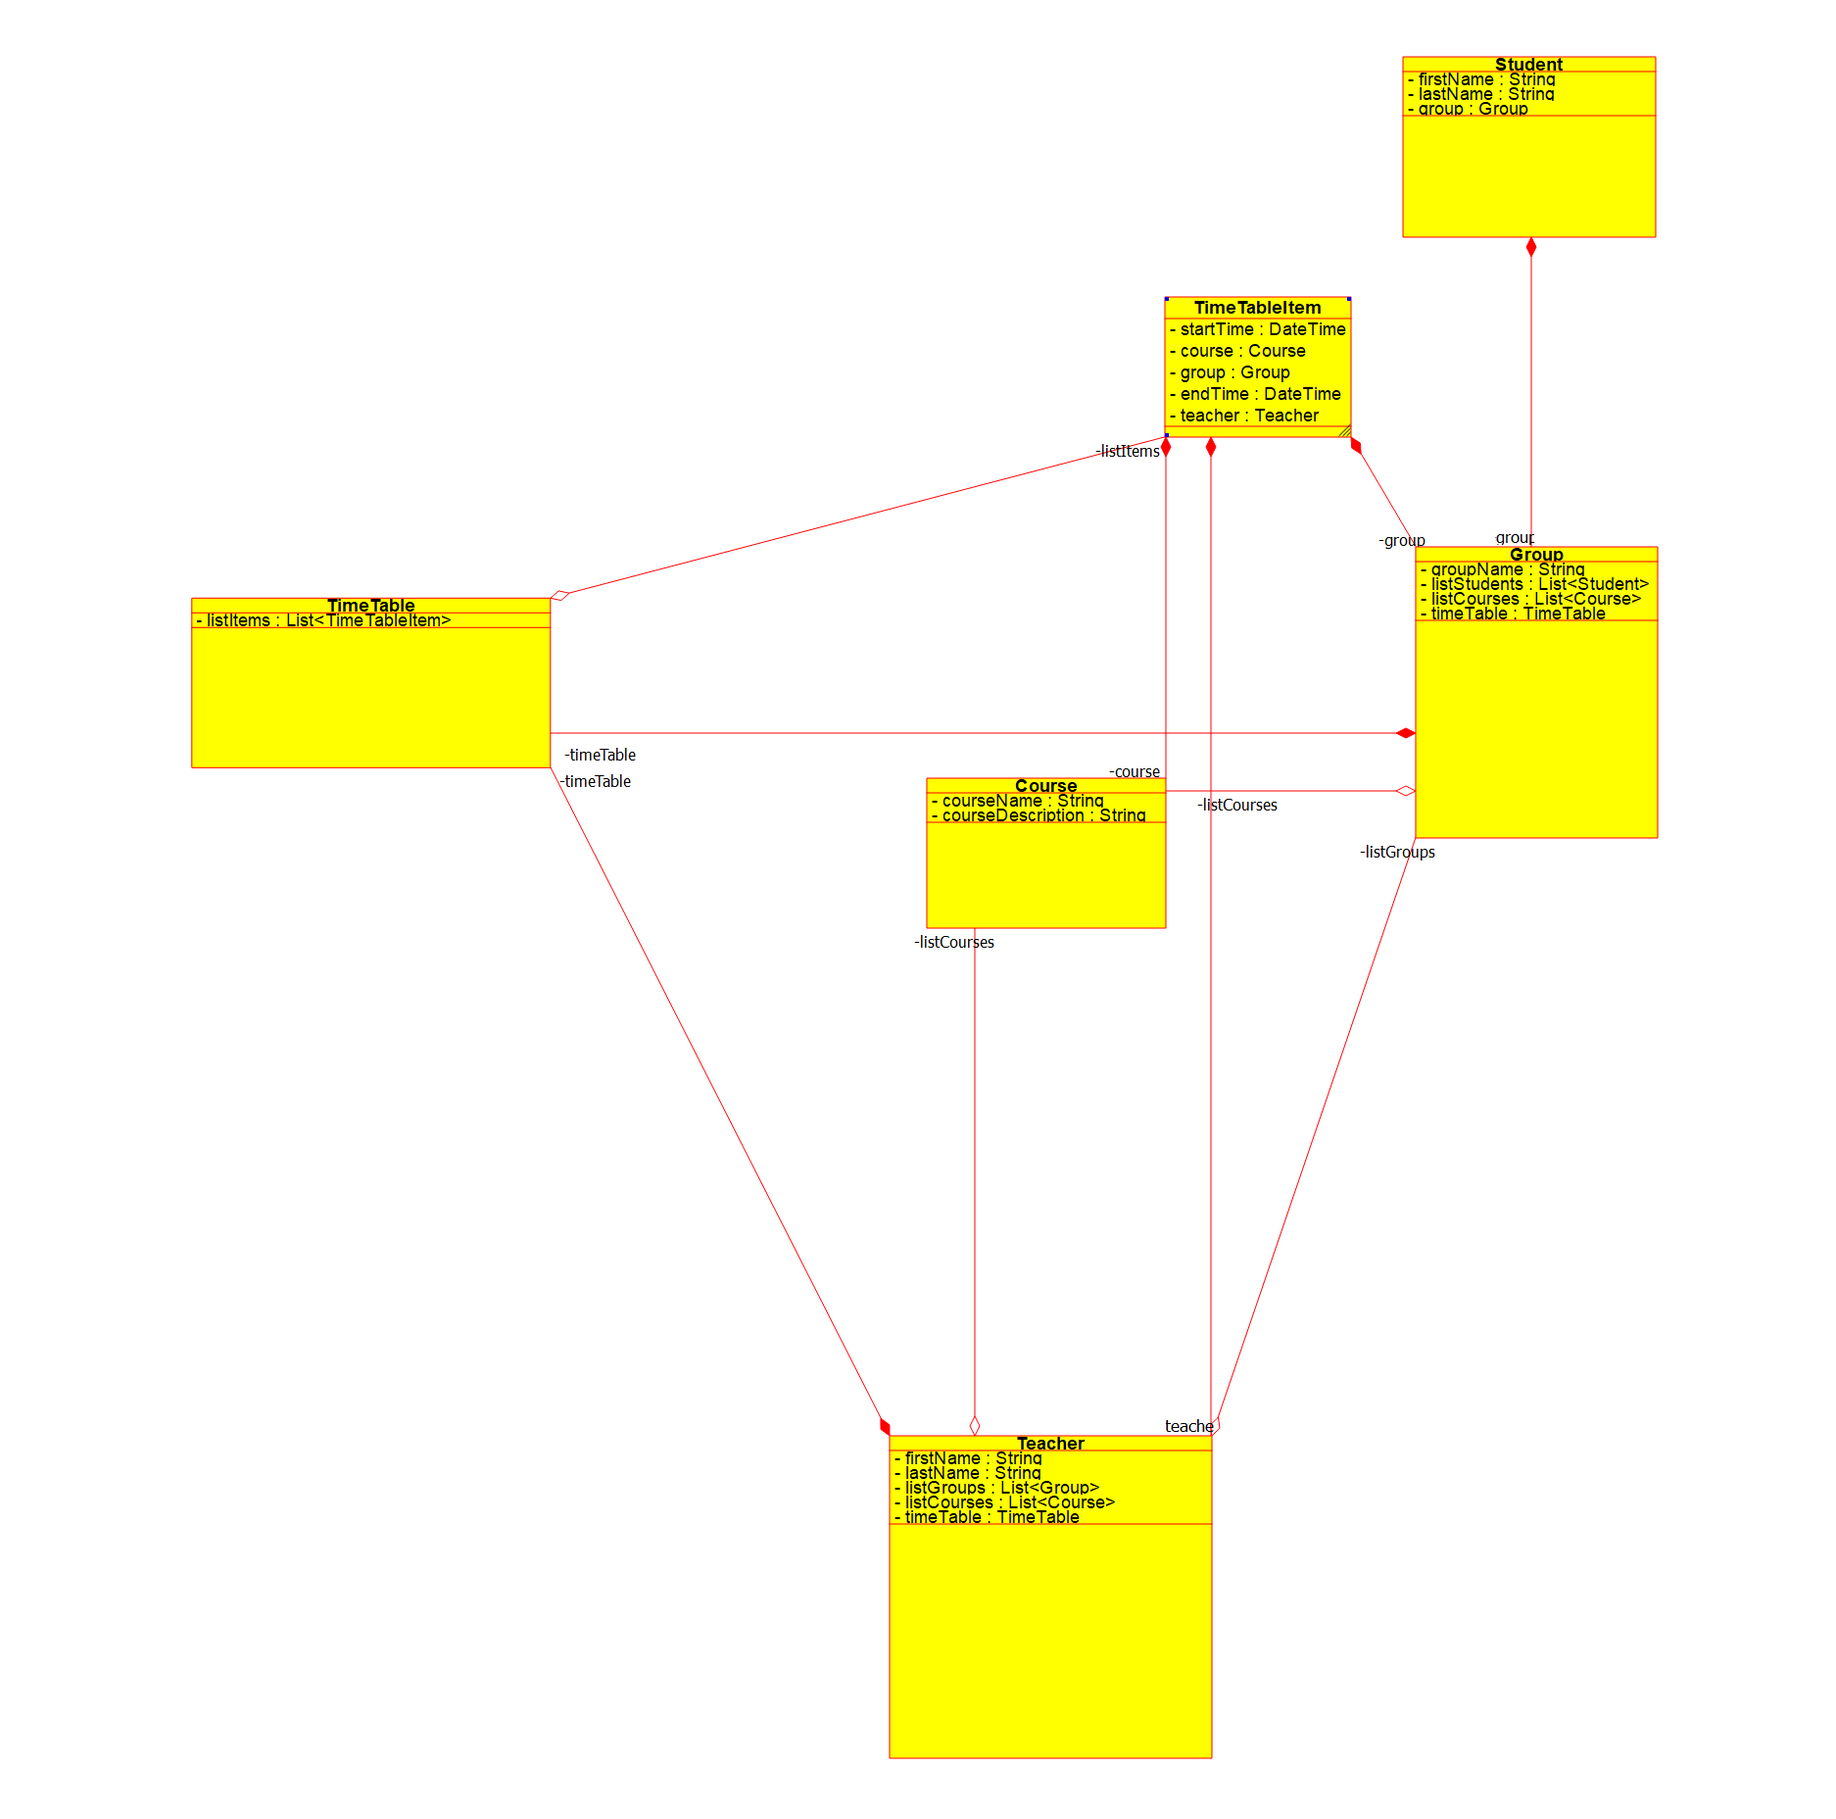
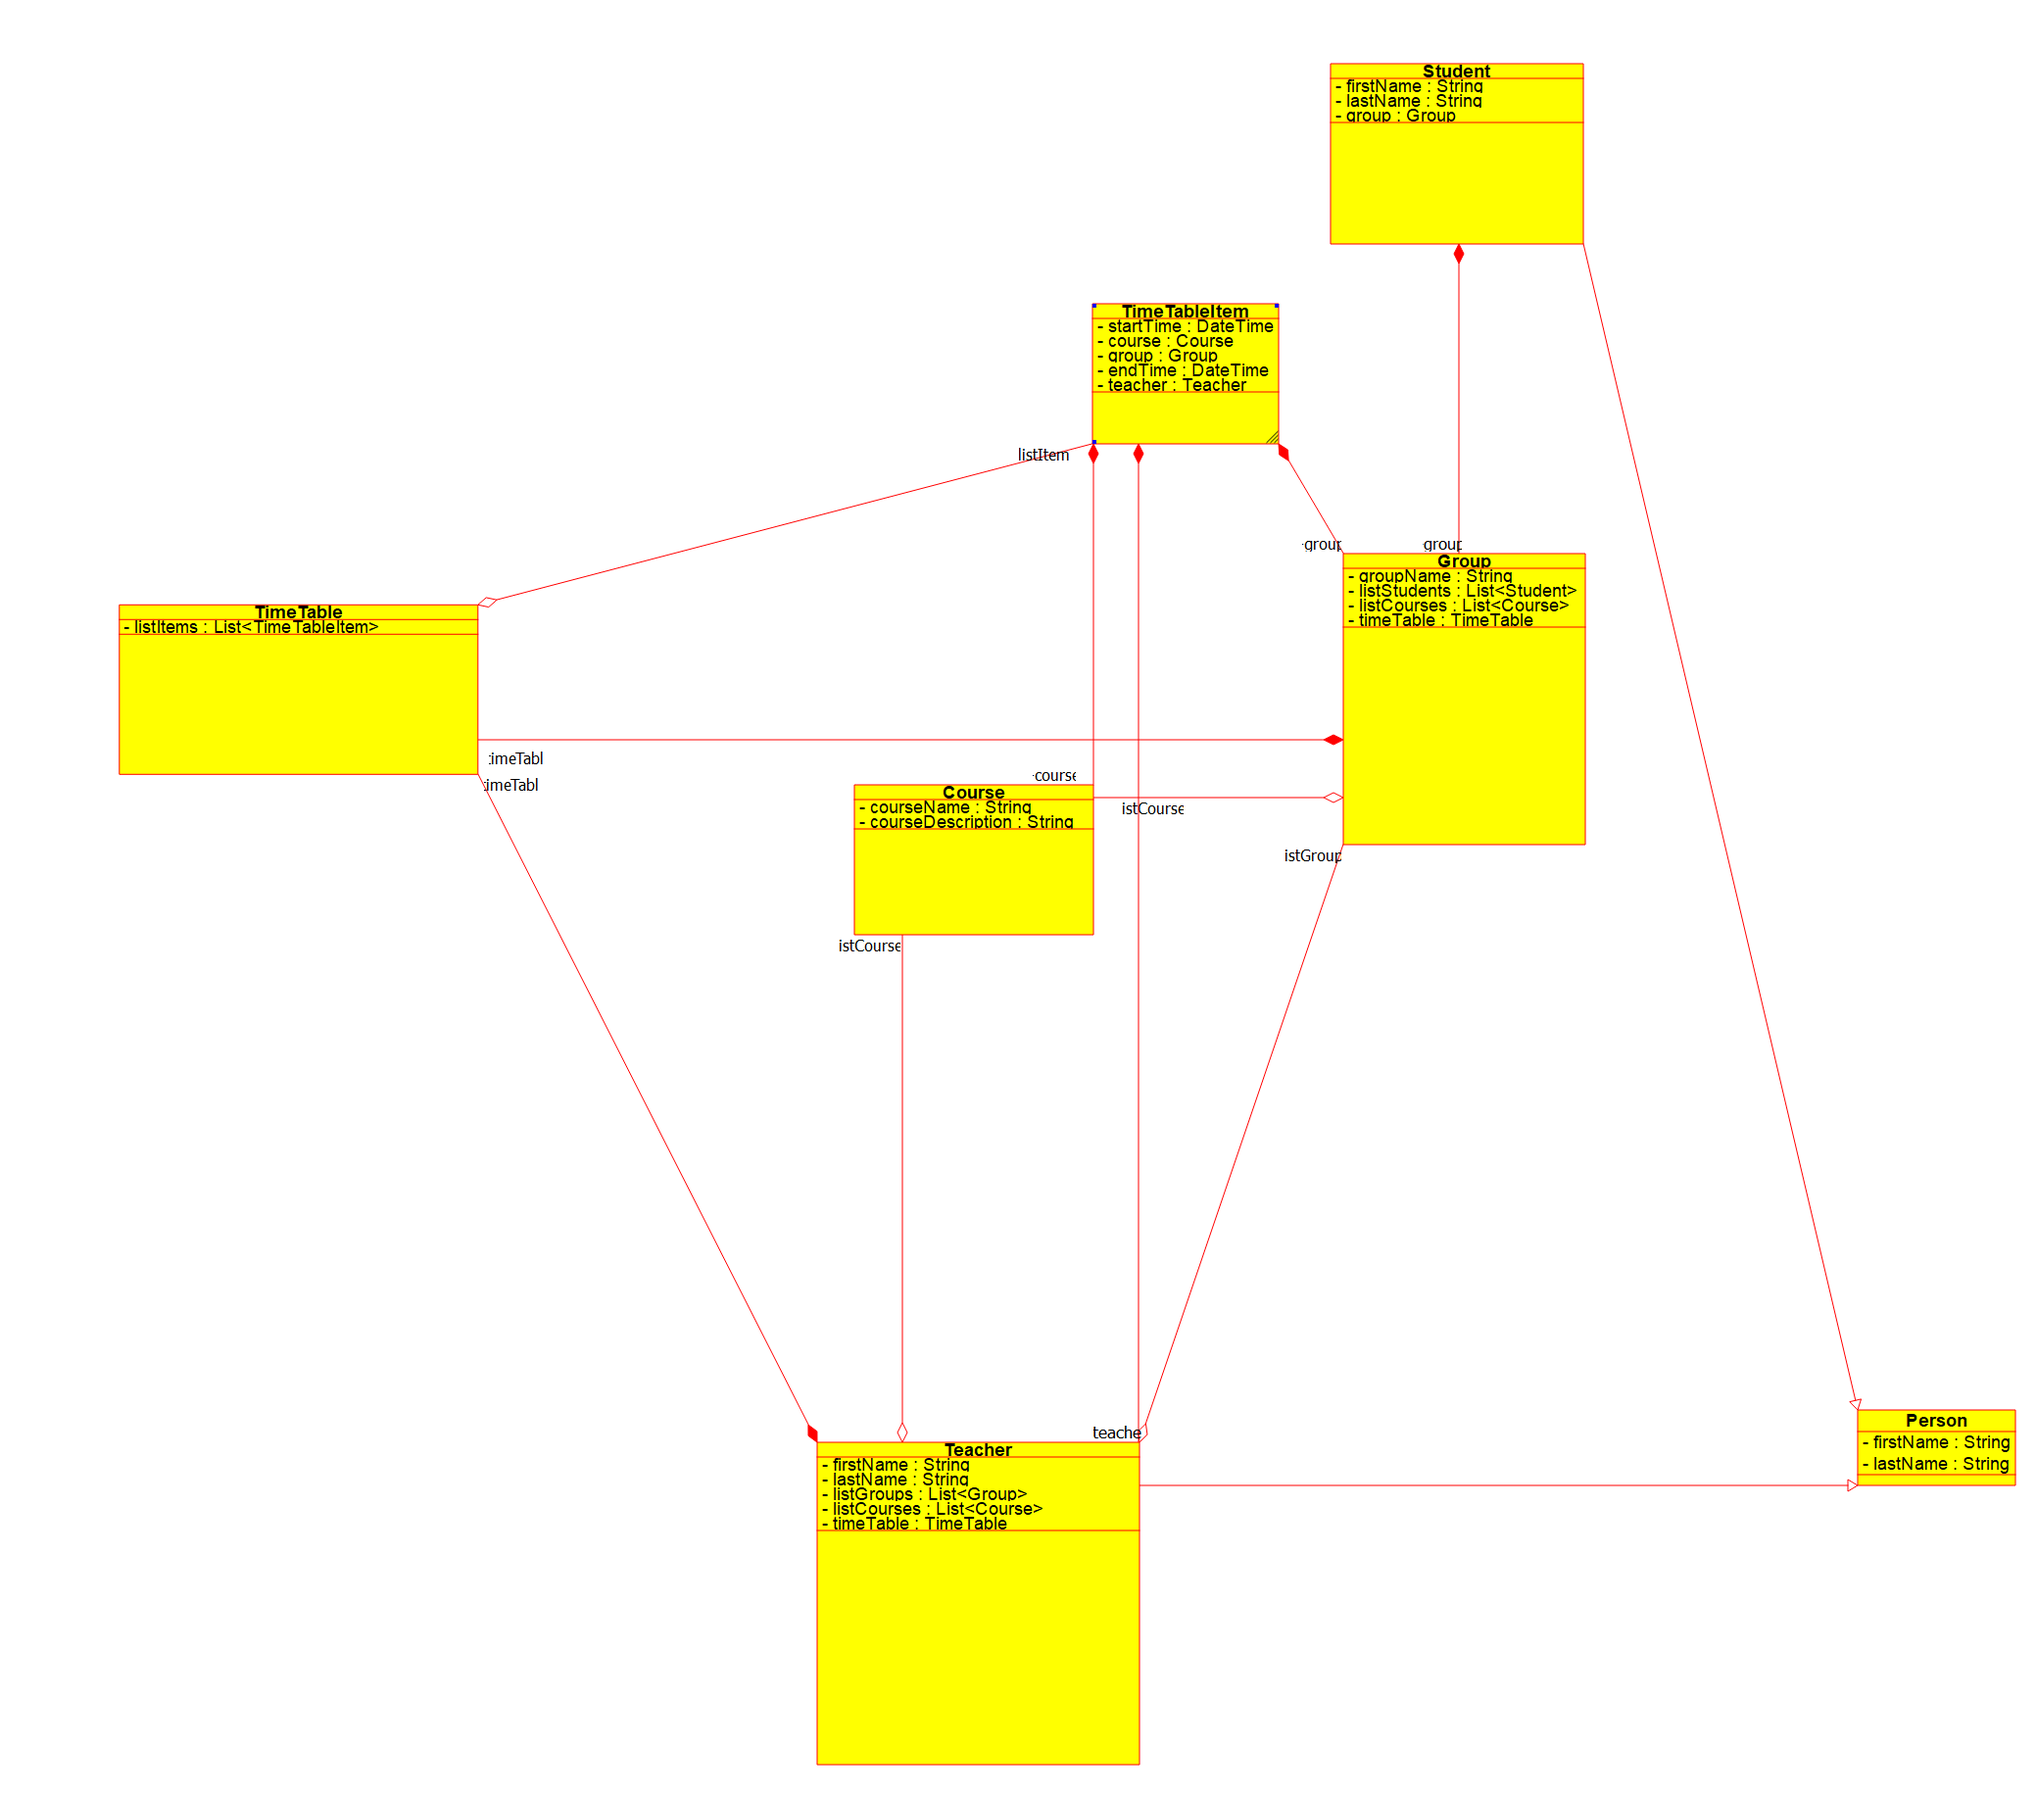
add models

diff --git a/src/main/java/model/TimeTableItem.java b/src/main/java/model/TimeTableItem.java
@@ -1,0 +1,17 @@
+package model;
+
+import java.time.LocalDateTime;
+
+import lombok.Getter;
+import lombok.Setter;
+
+@Getter
+@Setter
+public class TimeTableItem {
+
+    private LocalDateTime startTime;
+    private LocalDateTime endTime;
+    private Course course;
+    private Group group;
+    private Teacher teacher;
+}

diff --git a/src/main/java/model/Teacher.java b/src/main/java/model/Teacher.java
@@ -1,0 +1,16 @@
+package model;
+
+import java.util.List;
+
+import lombok.Getter;
+import lombok.Setter;
+
+@Getter
+@Setter
+public class Teacher extends Person {
+
+    private List<Group> listGroups;
+    private List<Course> listCourses;
+    private TimeTable timeTable;
+
+}

diff --git a/src/main/java/model/Group.java b/src/main/java/model/Group.java
@@ -1,0 +1,16 @@
+package model;
+
+import java.util.List;
+
+import lombok.Getter;
+import lombok.Setter;
+
+@Getter
+@Setter
+public class Group {
+    String groupName;
+    List<Student> listStudents;
+    List<Course> listCourses;
+    TimeTable timeTable;
+
+}

diff --git a/src/main/java/model/Person.java b/src/main/java/model/Person.java
@@ -1,0 +1,13 @@
+package model;
+
+import lombok.Getter;
+import lombok.Setter;
+
+@Getter
+@Setter
+public abstract class Person {
+
+    private String firstName;
+    private String lastName;
+
+}

diff --git a/src/main/java/model/Course.java b/src/main/java/model/Course.java
@@ -1,0 +1,11 @@
+package model;
+
+import lombok.Getter;
+import lombok.Setter;
+
+@Getter
+@Setter
+public class Course {
+    private String courseName;
+    private String courseDescription;
+}

diff --git a/src/main/java/model/TimeTable.java b/src/main/java/model/TimeTable.java
@@ -1,0 +1,12 @@
+package model;
+
+import java.util.List;
+
+import lombok.Getter;
+import lombok.Setter;
+
+@Getter
+@Setter
+public class TimeTable {
+    List<TimeTableItem> listItems;
+}

diff --git a/src/main/java/model/Student.java b/src/main/java/model/Student.java
@@ -1,0 +1,11 @@
+package model;
+
+import lombok.Getter;
+import lombok.Setter;
+
+@Getter
+@Setter
+public class Student extends Person {
+
+    private Group group;
+}
